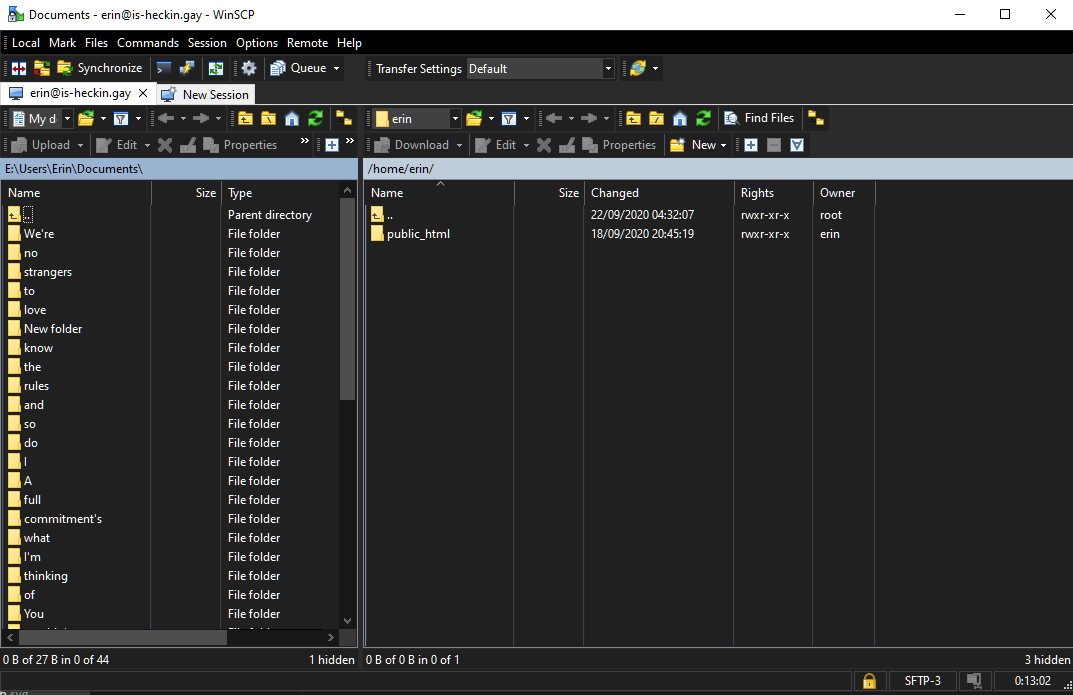
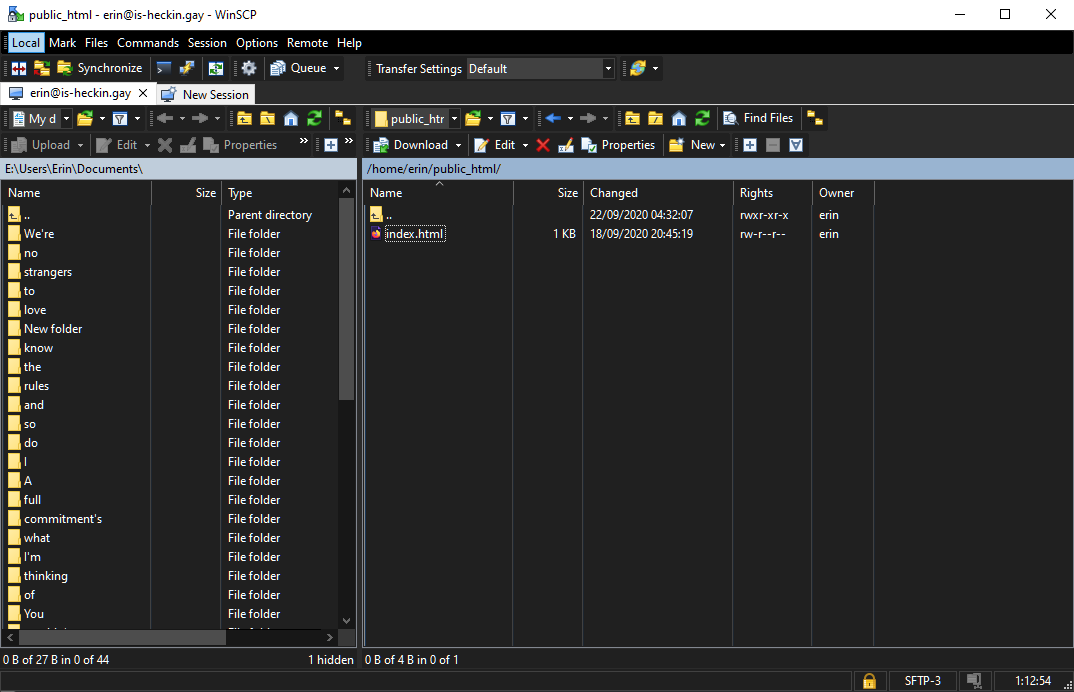
finish tutorial

Changed region(s): [[0.0, 0.0, 1.0, 1.0], [0.3383, 0.091, 0.4921, 0.1214], [0.5843, 0.091, 0.6151, 0.1214]]

diff --git a/Welcome.html b/Welcome.html
@@ -46,6 +46,22 @@
             <hr class="divider">
             <p>You will be prompted to change your password.<br>Note that when entering your password the characters will not be visible.<br>~ Enter current Password and press Enter.<br>~ Enter new Password and press Enter.<br>The window will close.</p>
             <img alt="image of the Kitty interface with erin.is-heckin.gay in the hostname field" src="assets/images/passwordReset.png">
+            <h2 style="margin-top: 1em;">Step 5: Install WinSCP</h2>
+            <hr class="divider">
+            <p>~ Download WinSCP from <a href="https://winscp.net/eng/index.php">here.</a><br>Note: do not touch the port number.<br>~ Type in your subdomain, this will be (username).is-heckin.gay.<br>~ Type in your Username.<br>~ (Optional) Click Save, to save the login for future use.<br>~ Click Login.</p>
+            <img alt="image of the Kitty interface with erin.is-heckin.gay in the hostname field" src="assets/images/WinSCPSetup.png">
+            <h2 style="margin-top: 1em;">Step 6: Enter Password</h2>
+            <hr class="divider">
+            <p>A window will appear similar to the one below.<br>~ Enter your Password.<br>~ Click OK.</p>
+            <img alt="image of the Kitty interface with erin.is-heckin.gay in the hostname field" src="assets/images/WinSCPpassword.png">
+            <h2 style="margin-top: 1em;">Step 7: Add Gay content!</h2>
+            <hr class="divider">
+            <p>WinSCP should now look something like this, showing both your directory on the remote server, and local files on your computer.<br>~ Open the public_html folder.<br>~ Replace the index.html file with your own content by dragging over a new index.html.</p>
+            <img alt="image of the Kitty interface with erin.is-heckin.gay in the hostname field" src="assets/images/completed.png">
+            <h2 style="margin-top: 1em;">Step 8: <strike>Profit?</strike> Enjoy your new static site!</h2>
+            <hr class="divider">
+            <p>By replacing index.html you will delete this tutorial, but don't worry!<br>This tutorial is permanently available <a href="https://is-heckin.gay/Welcome.html">here</a> or on the main site page.<br><br>If you need any more help, contact either Erin or Chef on Discord at Erin#7039 and MasterChief_John-117#1911</p>
+            <img alt="image of the Kitty interface with erin.is-heckin.gay in the hostname field" src="assets/images/pridestar.png">
         </div>
         
         
@@ -53,7 +69,7 @@
             <div id="footer">
                 <div id="footerLinks">
                     <a class="link" href="is-heckin.gay/coc+abusepage">
-                    abuse & coc
+                    abuse + coc
                     <svg class="linkIcon" aria-hidden="true" focusable="false" data-prefix="fas" data-icon="link" class="svg-inline--fa fa-link fa-w-16" role="img" xmlns="http://www.w3.org/2000/svg" viewBox="0 0 512 512"><path fill="currentColor" d="M326.612 185.391c59.747 59.809 58.927 155.698.36 214.59-.11.12-.24.25-.36.37l-67.2 67.2c-59.27 59.27-155.699 59.262-214.96 0-59.27-59.26-59.27-155.7 0-214.96l37.106-37.106c9.84-9.84 26.786-3.3 27.294 10.606.648 17.722 3.826 35.527 9.69 52.721 1.986 5.822.567 12.262-3.783 16.612l-13.087 13.087c-28.026 28.026-28.905 73.66-1.155 101.96 28.024 28.579 74.086 28.749 102.325.51l67.2-67.19c28.191-28.191 28.073-73.757 0-101.83-3.701-3.694-7.429-6.564-10.341-8.569a16.037 16.037 0 0 1-6.947-12.606c-.396-10.567 3.348-21.456 11.698-29.806l21.054-21.055c5.521-5.521 14.182-6.199 20.584-1.731a152.482 152.482 0 0 1 20.522 17.197zM467.547 44.449c-59.261-59.262-155.69-59.27-214.96 0l-67.2 67.2c-.12.12-.25.25-.36.37-58.566 58.892-59.387 154.781.36 214.59a152.454 152.454 0 0 0 20.521 17.196c6.402 4.468 15.064 3.789 20.584-1.731l21.054-21.055c8.35-8.35 12.094-19.239 11.698-29.806a16.037 16.037 0 0 0-6.947-12.606c-2.912-2.005-6.64-4.875-10.341-8.569-28.073-28.073-28.191-73.639 0-101.83l67.2-67.19c28.239-28.239 74.3-28.069 102.325.51 27.75 28.3 26.872 73.934-1.155 101.96l-13.087 13.087c-4.35 4.35-5.769 10.79-3.783 16.612 5.864 17.194 9.042 34.999 9.69 52.721.509 13.906 17.454 20.446 27.294 10.606l37.106-37.106c59.271-59.259 59.271-155.699.001-214.959z"></path></svg>
                     </a>
                     <a class="link" id="rightlink" href="is-heckin.gay/coc+abusepage">

diff --git a/404sub.html b/404sub.html
@@ -36,7 +36,7 @@
             <div id="footer">
                 <div id="footerLinks">
                     <a class="link" href="is-heckin.gay/coc+abusepage">
-                    abuse & coc
+                    abuse + coc
                     <svg class="linkIcon" aria-hidden="true" focusable="false" data-prefix="fas" data-icon="link" class="svg-inline--fa fa-link fa-w-16" role="img" xmlns="http://www.w3.org/2000/svg" viewBox="0 0 512 512"><path fill="currentColor" d="M326.612 185.391c59.747 59.809 58.927 155.698.36 214.59-.11.12-.24.25-.36.37l-67.2 67.2c-59.27 59.27-155.699 59.262-214.96 0-59.27-59.26-59.27-155.7 0-214.96l37.106-37.106c9.84-9.84 26.786-3.3 27.294 10.606.648 17.722 3.826 35.527 9.69 52.721 1.986 5.822.567 12.262-3.783 16.612l-13.087 13.087c-28.026 28.026-28.905 73.66-1.155 101.96 28.024 28.579 74.086 28.749 102.325.51l67.2-67.19c28.191-28.191 28.073-73.757 0-101.83-3.701-3.694-7.429-6.564-10.341-8.569a16.037 16.037 0 0 1-6.947-12.606c-.396-10.567 3.348-21.456 11.698-29.806l21.054-21.055c5.521-5.521 14.182-6.199 20.584-1.731a152.482 152.482 0 0 1 20.522 17.197zM467.547 44.449c-59.261-59.262-155.69-59.27-214.96 0l-67.2 67.2c-.12.12-.25.25-.36.37-58.566 58.892-59.387 154.781.36 214.59a152.454 152.454 0 0 0 20.521 17.196c6.402 4.468 15.064 3.789 20.584-1.731l21.054-21.055c8.35-8.35 12.094-19.239 11.698-29.806a16.037 16.037 0 0 0-6.947-12.606c-2.912-2.005-6.64-4.875-10.341-8.569-28.073-28.073-28.191-73.639 0-101.83l67.2-67.19c28.239-28.239 74.3-28.069 102.325.51 27.75 28.3 26.872 73.934-1.155 101.96l-13.087 13.087c-4.35 4.35-5.769 10.79-3.783 16.612 5.864 17.194 9.042 34.999 9.69 52.721.509 13.906 17.454 20.446 27.294 10.606l37.106-37.106c59.271-59.259 59.271-155.699.001-214.959z"></path></svg>
                     </a>
                     <a class="link" id="rightlink" href="https://github.com/galenguyer/is-heckin-gay-homepage">

diff --git a/404top.html b/404top.html
@@ -36,7 +36,7 @@
             <div id="footer">
                 <div id="footerLinks">
                     <a class="link" href="is-heckin.gay/coc+abusepage">
-                    abuse & coc
+                    abuse + coc
                     <svg class="linkIcon" aria-hidden="true" focusable="false" data-prefix="fas" data-icon="link" class="svg-inline--fa fa-link fa-w-16" role="img" xmlns="http://www.w3.org/2000/svg" viewBox="0 0 512 512"><path fill="currentColor" d="M326.612 185.391c59.747 59.809 58.927 155.698.36 214.59-.11.12-.24.25-.36.37l-67.2 67.2c-59.27 59.27-155.699 59.262-214.96 0-59.27-59.26-59.27-155.7 0-214.96l37.106-37.106c9.84-9.84 26.786-3.3 27.294 10.606.648 17.722 3.826 35.527 9.69 52.721 1.986 5.822.567 12.262-3.783 16.612l-13.087 13.087c-28.026 28.026-28.905 73.66-1.155 101.96 28.024 28.579 74.086 28.749 102.325.51l67.2-67.19c28.191-28.191 28.073-73.757 0-101.83-3.701-3.694-7.429-6.564-10.341-8.569a16.037 16.037 0 0 1-6.947-12.606c-.396-10.567 3.348-21.456 11.698-29.806l21.054-21.055c5.521-5.521 14.182-6.199 20.584-1.731a152.482 152.482 0 0 1 20.522 17.197zM467.547 44.449c-59.261-59.262-155.69-59.27-214.96 0l-67.2 67.2c-.12.12-.25.25-.36.37-58.566 58.892-59.387 154.781.36 214.59a152.454 152.454 0 0 0 20.521 17.196c6.402 4.468 15.064 3.789 20.584-1.731l21.054-21.055c8.35-8.35 12.094-19.239 11.698-29.806a16.037 16.037 0 0 0-6.947-12.606c-2.912-2.005-6.64-4.875-10.341-8.569-28.073-28.073-28.191-73.639 0-101.83l67.2-67.19c28.239-28.239 74.3-28.069 102.325.51 27.75 28.3 26.872 73.934-1.155 101.96l-13.087 13.087c-4.35 4.35-5.769 10.79-3.783 16.612 5.864 17.194 9.042 34.999 9.69 52.721.509 13.906 17.454 20.446 27.294 10.606l37.106-37.106c59.271-59.259 59.271-155.699.001-214.959z"></path></svg>
                     </a>
                     <a class="link" id="rightlink" href="https://github.com/galenguyer/is-heckin-gay-homepage">

diff --git a/index.html b/index.html
@@ -42,7 +42,7 @@
             <div id="footer">
                 <div id="footerLinks">
                     <a class="link" href="is-heckin.gay/coc+abusepage">
-                    abuse & coc
+                    abuse + coc
                     <svg class="linkIcon" aria-hidden="true" focusable="false" data-prefix="fas" data-icon="link" class="svg-inline--fa fa-link fa-w-16" role="img" xmlns="http://www.w3.org/2000/svg" viewBox="0 0 512 512"><path fill="currentColor" d="M326.612 185.391c59.747 59.809 58.927 155.698.36 214.59-.11.12-.24.25-.36.37l-67.2 67.2c-59.27 59.27-155.699 59.262-214.96 0-59.27-59.26-59.27-155.7 0-214.96l37.106-37.106c9.84-9.84 26.786-3.3 27.294 10.606.648 17.722 3.826 35.527 9.69 52.721 1.986 5.822.567 12.262-3.783 16.612l-13.087 13.087c-28.026 28.026-28.905 73.66-1.155 101.96 28.024 28.579 74.086 28.749 102.325.51l67.2-67.19c28.191-28.191 28.073-73.757 0-101.83-3.701-3.694-7.429-6.564-10.341-8.569a16.037 16.037 0 0 1-6.947-12.606c-.396-10.567 3.348-21.456 11.698-29.806l21.054-21.055c5.521-5.521 14.182-6.199 20.584-1.731a152.482 152.482 0 0 1 20.522 17.197zM467.547 44.449c-59.261-59.262-155.69-59.27-214.96 0l-67.2 67.2c-.12.12-.25.25-.36.37-58.566 58.892-59.387 154.781.36 214.59a152.454 152.454 0 0 0 20.521 17.196c6.402 4.468 15.064 3.789 20.584-1.731l21.054-21.055c8.35-8.35 12.094-19.239 11.698-29.806a16.037 16.037 0 0 0-6.947-12.606c-2.912-2.005-6.64-4.875-10.341-8.569-28.073-28.073-28.191-73.639 0-101.83l67.2-67.19c28.239-28.239 74.3-28.069 102.325.51 27.75 28.3 26.872 73.934-1.155 101.96l-13.087 13.087c-4.35 4.35-5.769 10.79-3.783 16.612 5.864 17.194 9.042 34.999 9.69 52.721.509 13.906 17.454 20.446 27.294 10.606l37.106-37.106c59.271-59.259 59.271-155.699.001-214.959z"></path></svg>
                     </a>
                     <a class="link" id="rightlink" href="https://github.com/galenguyer/is-heckin-gay-homepage">

diff --git a/AbuseAndCOC.html b/AbuseAndCOC.html
@@ -36,7 +36,7 @@
             <div id="footer">
                 <div id="footerLinks">
                     <a class="link" href="is-heckin.gay/coc+abusepage">
-                    abuse & coc
+                    abuse + coc
                     <svg class="linkIcon" aria-hidden="true" focusable="false" data-prefix="fas" data-icon="link" class="svg-inline--fa fa-link fa-w-16" role="img" xmlns="http://www.w3.org/2000/svg" viewBox="0 0 512 512"><path fill="currentColor" d="M326.612 185.391c59.747 59.809 58.927 155.698.36 214.59-.11.12-.24.25-.36.37l-67.2 67.2c-59.27 59.27-155.699 59.262-214.96 0-59.27-59.26-59.27-155.7 0-214.96l37.106-37.106c9.84-9.84 26.786-3.3 27.294 10.606.648 17.722 3.826 35.527 9.69 52.721 1.986 5.822.567 12.262-3.783 16.612l-13.087 13.087c-28.026 28.026-28.905 73.66-1.155 101.96 28.024 28.579 74.086 28.749 102.325.51l67.2-67.19c28.191-28.191 28.073-73.757 0-101.83-3.701-3.694-7.429-6.564-10.341-8.569a16.037 16.037 0 0 1-6.947-12.606c-.396-10.567 3.348-21.456 11.698-29.806l21.054-21.055c5.521-5.521 14.182-6.199 20.584-1.731a152.482 152.482 0 0 1 20.522 17.197zM467.547 44.449c-59.261-59.262-155.69-59.27-214.96 0l-67.2 67.2c-.12.12-.25.25-.36.37-58.566 58.892-59.387 154.781.36 214.59a152.454 152.454 0 0 0 20.521 17.196c6.402 4.468 15.064 3.789 20.584-1.731l21.054-21.055c8.35-8.35 12.094-19.239 11.698-29.806a16.037 16.037 0 0 0-6.947-12.606c-2.912-2.005-6.64-4.875-10.341-8.569-28.073-28.073-28.191-73.639 0-101.83l67.2-67.19c28.239-28.239 74.3-28.069 102.325.51 27.75 28.3 26.872 73.934-1.155 101.96l-13.087 13.087c-4.35 4.35-5.769 10.79-3.783 16.612 5.864 17.194 9.042 34.999 9.69 52.721.509 13.906 17.454 20.446 27.294 10.606l37.106-37.106c59.271-59.259 59.271-155.699.001-214.959z"></path></svg>
                     </a>
                     <a class="link" id="rightlink" href="is-heckin.gay/coc+abusepage">
